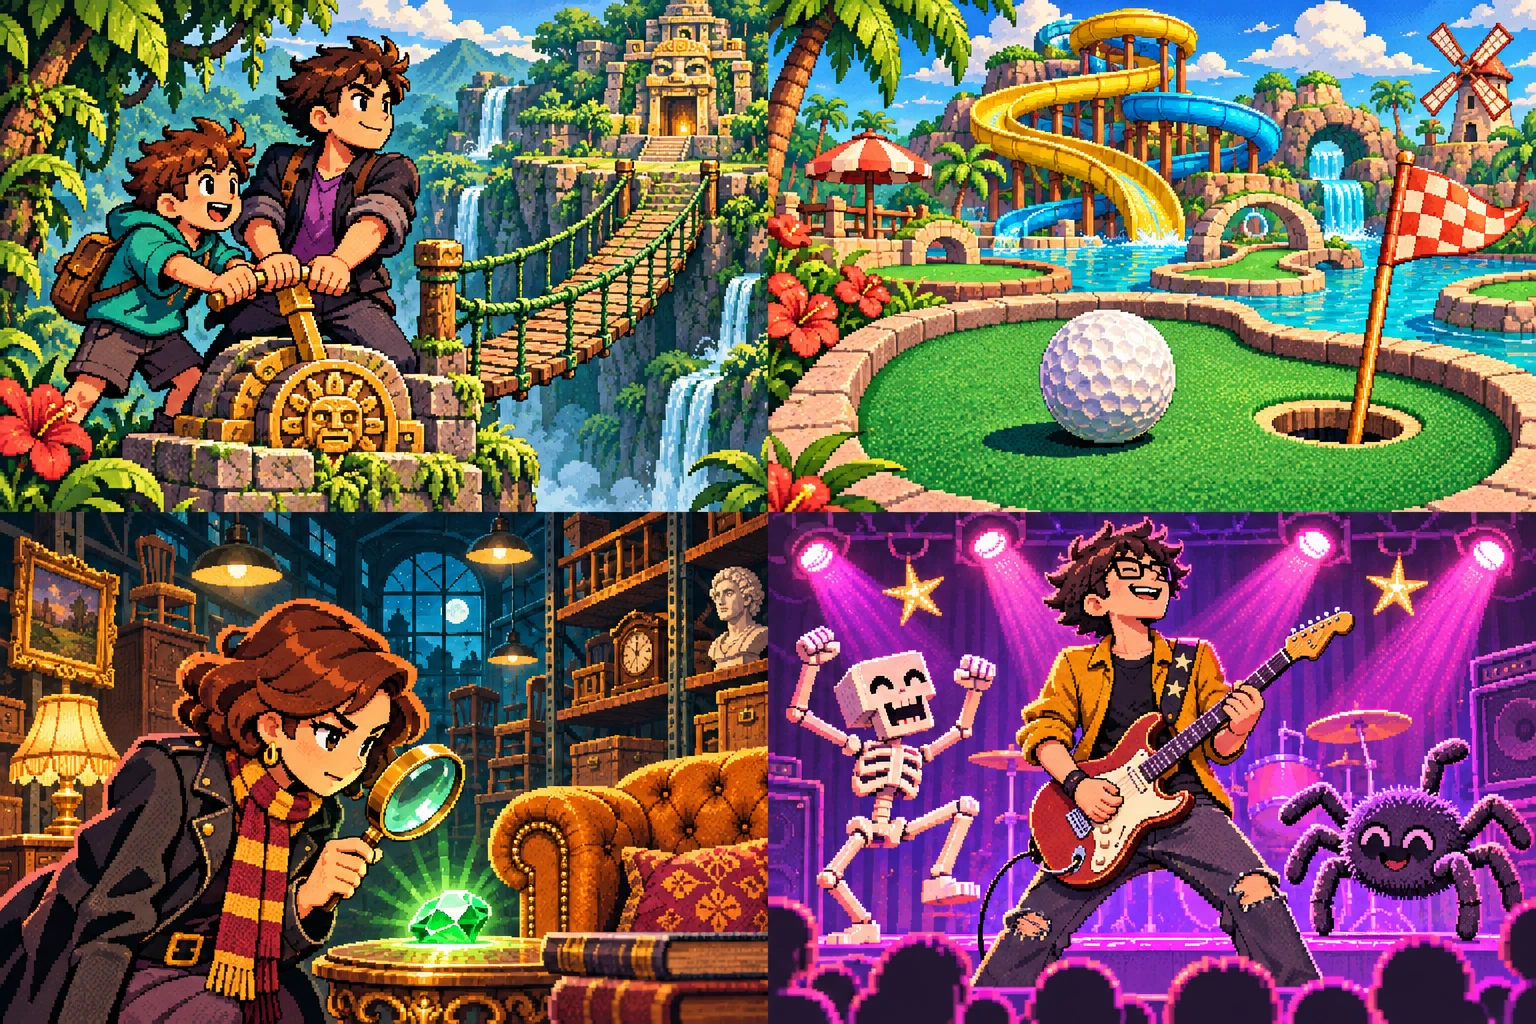
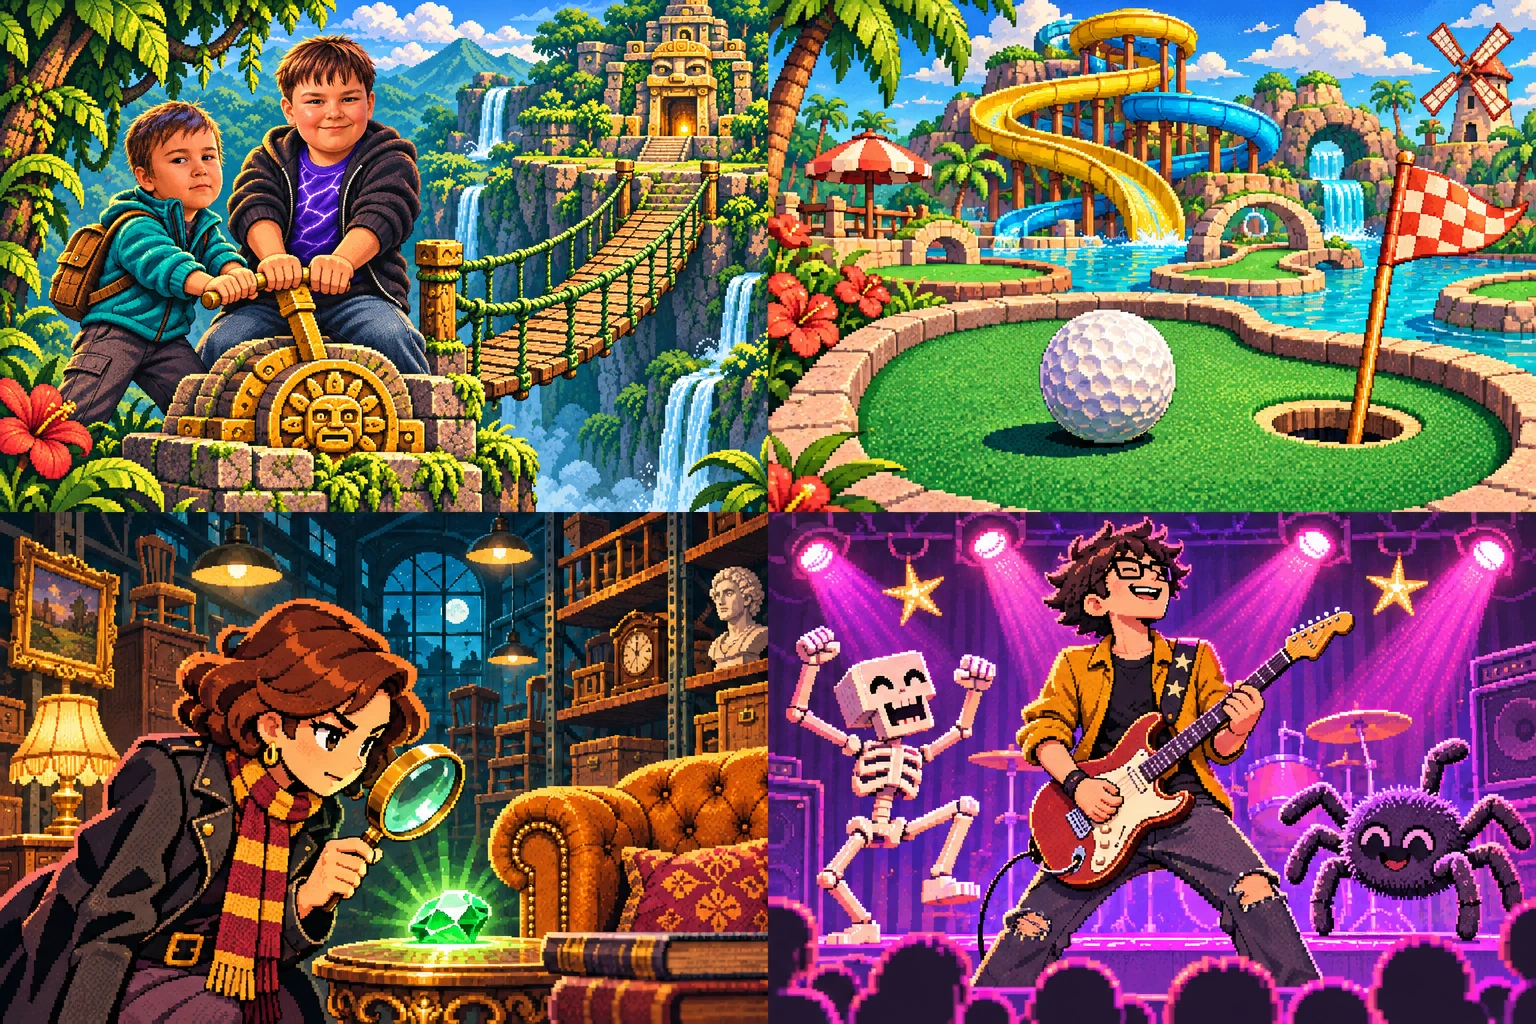
Нарисовать Кирилла и Максима по их портретам на обложке «Два ключа» (#3)

Changed region(s): [[0.0, 0.0, 0.5, 0.5]]

diff --git a/offline-files.js b/offline-files.js
@@ -1,5 +1,5 @@
 // Generated by node scripts/update-offline.mjs
-const OFFLINE_REVISION = "tj2BvfSTSHSMa9Xg3wOK";
+const OFFLINE_REVISION = "oQzUp00YohQfFafMBeTa";
 const OFFLINE_FILES = [
   [
     "assets/app-192.png",
@@ -33,8 +33,8 @@ const OFFLINE_FILES = [
   ],
   [
     "assets/playroom-covers.webp",
-    "sha256-MfqXu3DFADVlWD3p4WhyLTrUbM0/J3OLrekrihyYnRo=",
-    627548
+    "sha256-TeGRQPElMnvaX8qR0yscTkjRc5oM0L6pxySiCodvJAs=",
+    650772
   ],
   [
     "assets/press-start-2p.ttf",
@@ -518,8 +518,8 @@ const OFFLINE_FILES = [
   ],
   [
     "index.html",
-    "sha256-/uA9BcD4chxX/KP1b+HYxlyLcrc9ru+4EY5YuscIeHw=",
-    7605
+    "sha256-hFI6tSOyPX947m3zfETyOorOfH5/D10klvjH1/pK3HA=",
+    7623
   ],
   [
     "manifest.webmanifest",
@@ -568,7 +568,7 @@ const OFFLINE_FILES = [
   ],
   [
     "style.css",
-    "sha256-cP7JsVnktLU+LZDzH3cuhgBsudcTMf53i5ie9QhJjZM=",
-    6223
+    "sha256-PE2XjJGbj3ezWMNXuwcGjFlDBI4m1IwNsAI+aWrJpq8=",
+    6241
   ]
 ];

diff --git a/index.html b/index.html
@@ -16,7 +16,7 @@
     />
     <meta
       property="og:image"
-      content="https://games.polomodov.tech/block-playroom/assets/playroom-covers.webp"
+      content="https://games.polomodov.tech/block-playroom/assets/playroom-covers.webp?v=two-keys-family"
     />
     <link rel="icon" href="./assets/mark.svg" />
     <link rel="stylesheet" href="./style.css" />

diff --git a/style.css b/style.css
@@ -122,7 +122,7 @@ p {
 .art {
   width: 100%;
   aspect-ratio: 1.5;
-  background: url('./assets/playroom-covers.webp') no-repeat;
+  background: url('./assets/playroom-covers.webp?v=two-keys-family') no-repeat;
   background-size: 200% 200%;
   border-bottom: 1px solid #60536c;
 }
